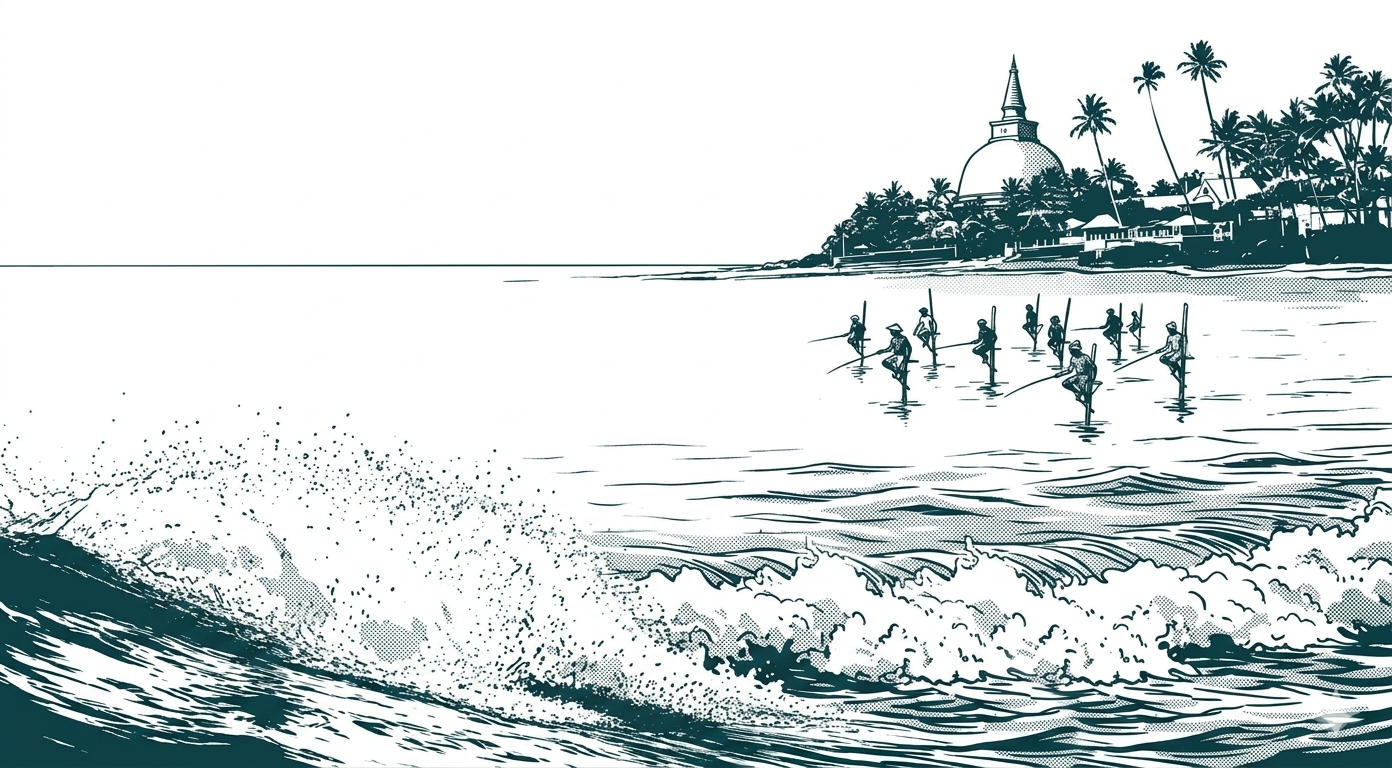
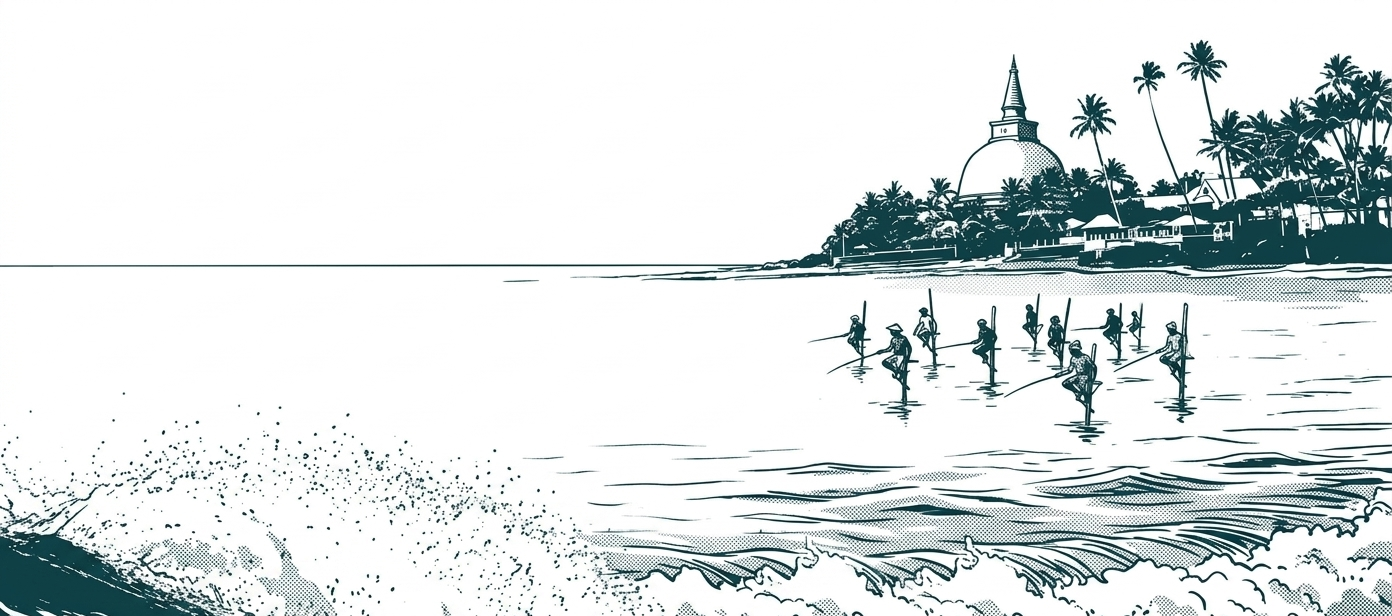
update pictures

diff --git a/src/pages/DestinationDetail.tsx b/src/pages/DestinationDetail.tsx
@@ -18,20 +18,20 @@ const categoryDescriptions: Record<string, string> = {
 
 const categoryHeroImage: Record<string, string> = {
   'Wildlife tours': '/images/home/yala.jpg',
-  'Adventure tours': '/images/home/colombo.avif',
+  'Adventure tours': '/images/destinations/kithulgala.jpg',
   'Beaches tours': '/images/destinations/hikkaduwa-culture.jpg',
-  'Historical Areas tours': '/images/destinations/polonnaruwa-culture.webp',
+  'Historical Areas tours': '/images/destinations/sigiriya-culture.png',
   'Culture & Heritage tours': '/images/home/kandy.jpg',
   'Hidden Trails tours': '/images/home/The-best-things-to-do-in-Ella-Sri-Lanka.jpg',
 };
 // Separate background images for parallax effect
 const categoryBackgroundImage: Record<string, string> = {
-  'Wildlife tours': '/images/updated.jpeg',
-  'Adventure tours': '/images/updated.jpeg',
-  'Beaches tours': '/images/updated.jpeg',
-  'Historical Areas tours': '/images/updated.jpeg',
-  'Culture & Heritage tours': '/images/updated.jpeg',
-  'Hidden Trails tours': '/images/updated.jpeg',
+  'Wildlife tours': '/images/bg/bg-6.png',
+  'Adventure tours': '/images/bg/bg-8.png',
+  'Beaches tours': '/images/bg/bg-3.png',
+  'Historical Areas tours': '/images/bg/bg-7.png',
+  'Culture & Heritage tours': '/images/bg/bg-4.png',
+  'Hidden Trails tours': '/images/bg/bg-2.png',
 };
 // const tourHighlights = {
 //   'Wildlife tours': [
@@ -354,7 +354,7 @@ const DestinationDetail = () => {
             y: bgY,
           }}
         />
-        <div className="absolute inset-0 bg-gradient-to-r from-white/80 via-white/95 to-transparent" />
+        <div className="absolute inset-0 bg-gradient-to-r from-white/90 via-white/75 to-transparent" />
 
         <div className="relative mx-auto max-w-9xl px-4 sm:px-8 lg:px-20">
 

diff --git a/src/pages/About.tsx b/src/pages/About.tsx
@@ -185,7 +185,7 @@ const About = () => {
 
       {/* ── WHY CHOOSE US ────────────────────────────────────── */}
       <section className="relative overflow-hidden py-20 md:py-24 min-h-[580px] flex items-center bg-white">
-        <div className="absolute inset-0 bg-cover bg-center opacity-8" style={{ backgroundImage: 'url(/images/updated.jpeg)' }} />
+        <div className="absolute inset-0 bg-cover bg-center opacity-8" style={{ backgroundImage: 'url(/images/bg/bg-9.png)' }} />
         <div className="relative mx-auto max-w-9xl px-4 sm:px-8 lg:px-20">
           <motion.div
             className="text-center"

diff --git a/src/pages/Inquiry.tsx b/src/pages/Inquiry.tsx
@@ -212,7 +212,7 @@ const Inquiry = () => {
         <div className="absolute inset-0">
           <div
             className="absolute inset-0 bg-cover bg-center bg-no-repeat opacity-34"
-            style={{ backgroundImage: 'url(/images/updated.jpeg)' }}
+            style={{ backgroundImage: 'url(/images/bg/bg-5.png)' }}
           />
           <div className="absolute inset-0 bg-[linear-gradient(180deg,rgba(255,255,255,0.28)_0%,rgba(255,255,255,0.48)_32%,rgba(255,255,255,0.70)_74%,rgba(255,255,255,0.90)_100%)]" />
         </div>

diff --git a/src/pages/home.tsx b/src/pages/home.tsx
@@ -514,7 +514,7 @@ const Home = () => {
   <div
     className="absolute inset-0 pointer-events-none"
     style={{
-      backgroundImage: "url('/images/updated.jpeg')",
+      backgroundImage: "url('/images/bg/bg-1.png')",
       backgroundSize: 'cover',
       backgroundPosition: 'center',// 👈 flips horizontally
       opacity: 0.9,